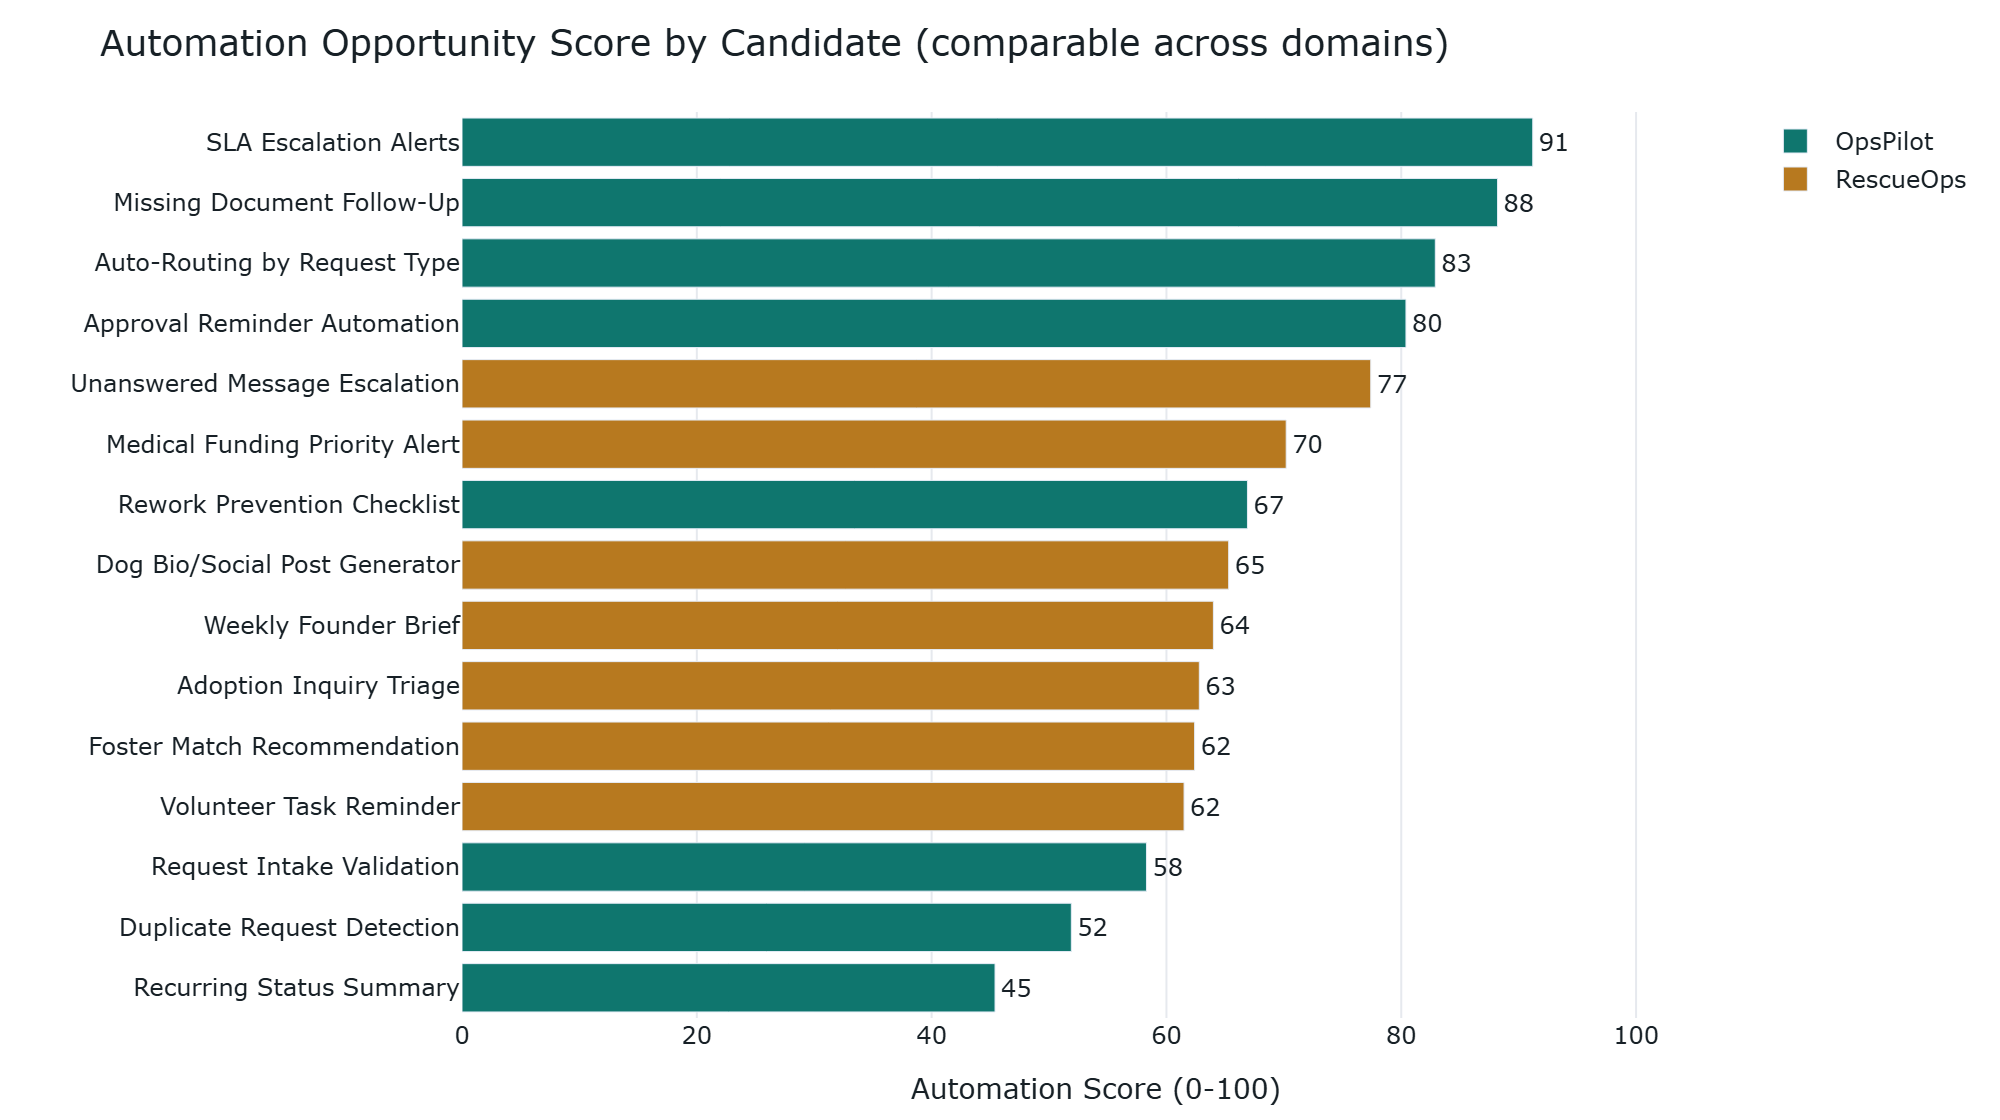
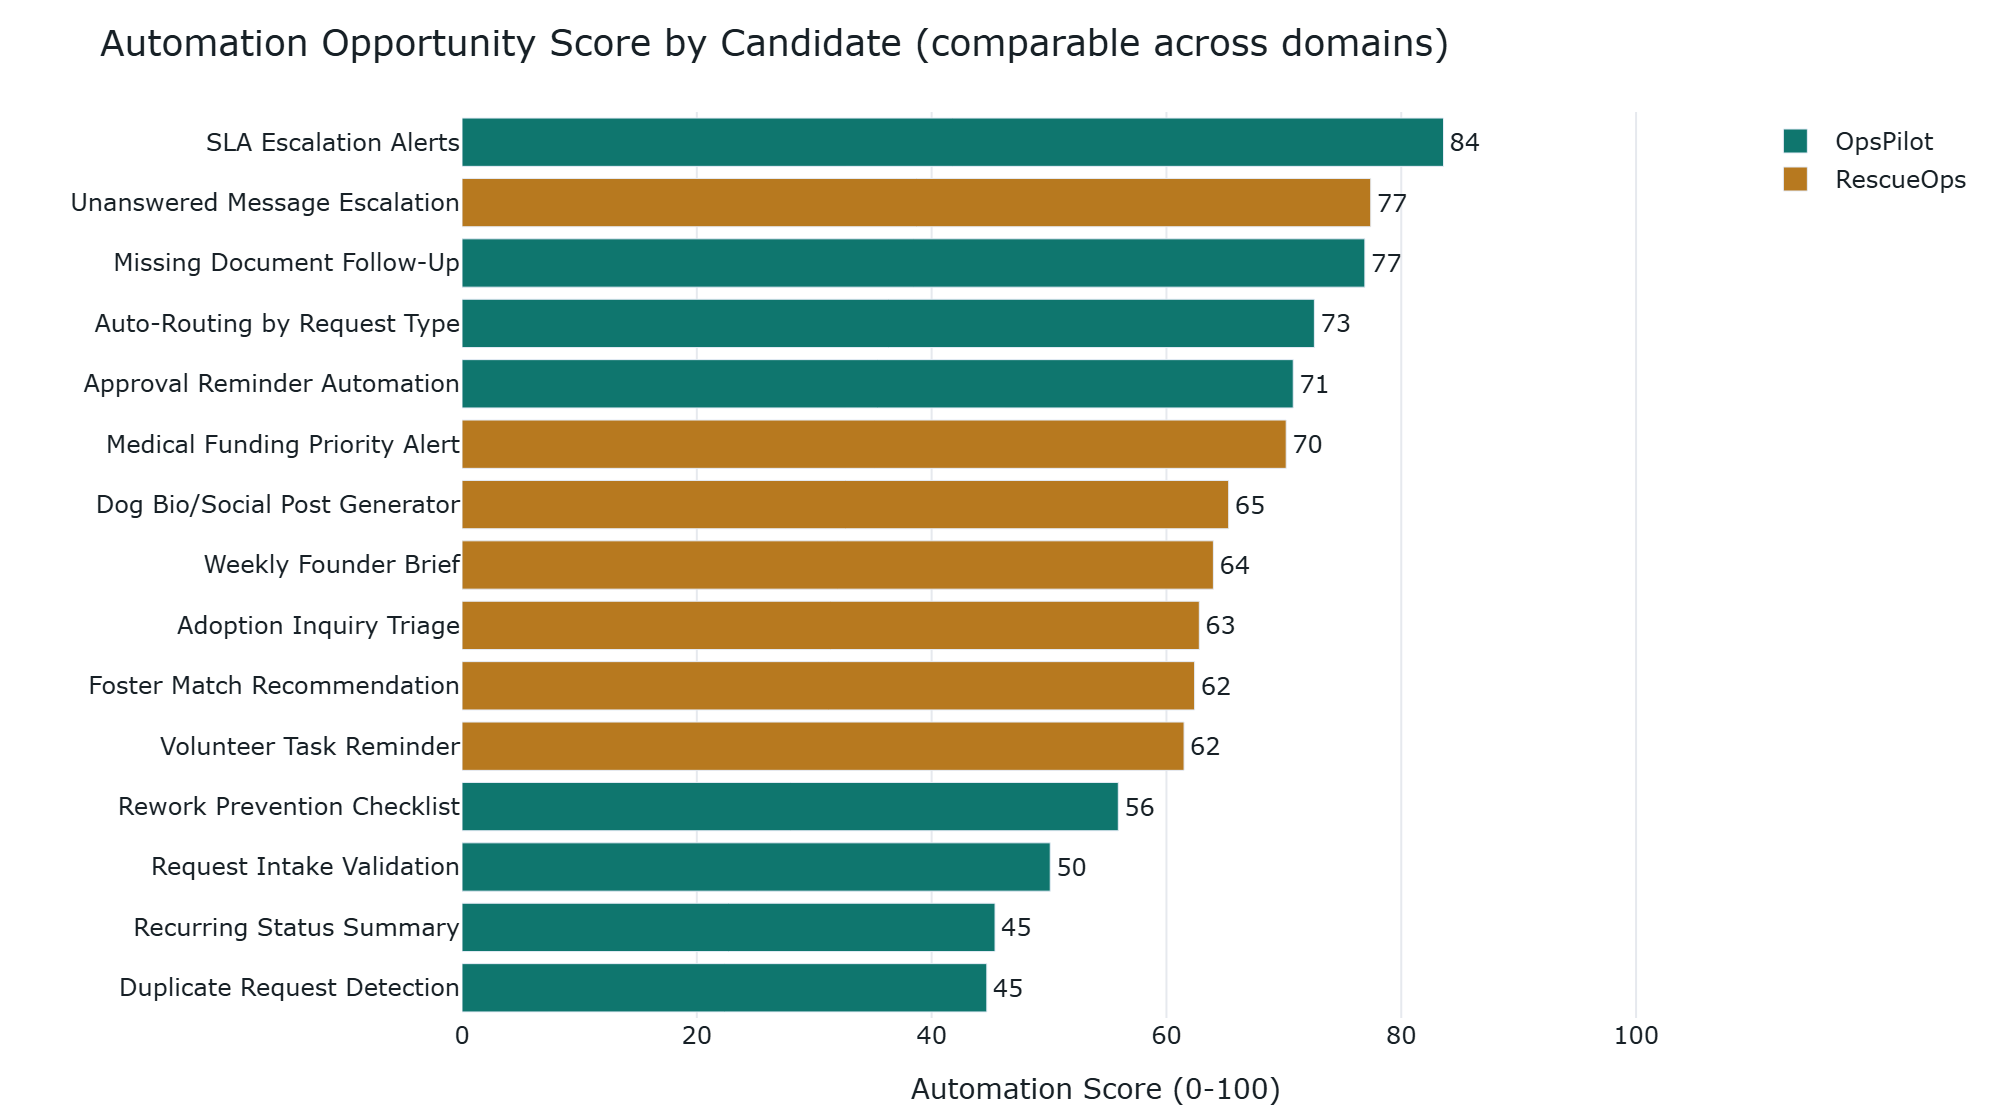
Review fixes: monthly scoring basis + automation/ROI edge cases
Adversarial Fable review of the revision found one real integrity bug and
four minor issues; all fixed and covered by tests.

Major -- cross-domain comparability was still false in code: OpsPilot fed
dataset-lifetime totals (~58-day span) into a curve calibrated as monthly,
while RescueOps fed monthly estimates, inflating OpsPilot scores by ~7-11
points. Fixed by scaling OpsPilot aggregates to a monthly basis via a shared
opspilot_monthly_impact() helper (used by both the builder and the property
test). The ranking now genuinely interleaves the two domains -- RescueOps'
top candidate (77.4) correctly sits above mid-pack OpsPilot candidates.

Minor:
- Plotly hovertemplate showed a literal "%%" -> single "%".
- Audit log: header decided by file size (not existence) and the handle opened
  lazily on first action, so a zero-byte crash-leftover still gets a header and
  a zero-action run creates nothing. New test covers the empty-file recovery.
- Windowed re-trigger now writes a date-suffixed file instead of silently
  overwriting the first message; test asserts the outbox grows.
- ROI with zero build cost reports ROI "n/a" and payback "Immediate" instead of
  a misleading 0%; report text phrasing for the no-payback case fixed.

Verified: py_compile clean; smoke, ranker, automation suites green; all 7 pages
+ report/demo toggles boot via AppTest; ranker.png regenerated.

Claude-Session: https://claude.ai/code/session_01PH1dVaM48RhUmaA4nxzxGZ

diff --git a/automations/missing_document_followup.py b/automations/missing_document_followup.py
@@ -148,7 +148,6 @@ def run(
 
     last_seen = load_key_last_seen(audit_log)
     handled = handled_keys(last_seen, now, window_days)
-    audit_exists = audit_log.exists()
 
     scanned = 0
     missing = 0
@@ -156,18 +155,32 @@ def run(
     skipped = 0
     capped = 0
 
-    # Crash-safety: open the audit log once and append each action row immediately
-    # after its outbox file is written (and flush), so a mid-run failure never
-    # leaves a written follow-up unrecorded -- which would cause a re-send next run.
-    audit_handle = None
-    audit_writer = None
     if not dry_run:
         outbox_dir.mkdir(parents=True, exist_ok=True)
-        audit_handle = audit_log.open("a", newline="", encoding="utf-8")
-        audit_writer = csv.writer(audit_handle)
-        if not audit_exists:
-            audit_writer.writerow(AUDIT_HEADER)
-            audit_handle.flush()
+
+    # Crash-safety: append each action row immediately after its outbox file is
+    # written (and flush), so a mid-run failure never leaves a written follow-up
+    # unrecorded -- which would cause a re-send next run. The audit file/handle is
+    # opened lazily on the FIRST action, so a run with zero actions creates nothing,
+    # and the header is decided by actual file contents (missing or empty), not mere
+    # existence -- a zero-byte leftover still gets a header.
+    audit_handle = None
+    audit_writer = None
+
+    def _audit_writer():
+        nonlocal audit_handle, audit_writer
+        if audit_handle is None:
+            need_header = (not audit_log.exists()) or audit_log.stat().st_size == 0
+            audit_handle = audit_log.open("a", newline="", encoding="utf-8")
+            audit_writer = csv.writer(audit_handle)
+            if need_header:
+                audit_writer.writerow(AUDIT_HEADER)
+                audit_handle.flush()
+        return audit_writer
+
+    # When a re-trigger window is in effect, a later chase must produce a distinct
+    # artifact rather than silently overwriting the first message.
+    name_suffix = f"_{now.date().isoformat()}" if window_days is not None else ""
 
     try:
         with data_path.open("r", newline="", encoding="utf-8") as handle:
@@ -197,7 +210,7 @@ def run(
                 # cannot double-write within a single run.
                 handled.add(key)
 
-                outbox_file = outbox_dir / f"{_safe_slug(request_id)}_{_safe_slug(rule_name)}.txt"
+                outbox_file = outbox_dir / f"{_safe_slug(request_id)}_{_safe_slug(rule_name)}{name_suffix}.txt"
                 # Defense in depth: never write outside the outbox directory.
                 if not outbox_file.resolve().is_relative_to(outbox_dir.resolve()):
                     raise ValueError(f"Refusing to write outside outbox: {outbox_file}")
@@ -207,7 +220,8 @@ def run(
                     continue
 
                 outbox_file.write_text(build_followup_message(row, rule_name), encoding="utf-8")
-                audit_writer.writerow(
+                writer = _audit_writer()
+                writer.writerow(
                     [timestamp, request_id, rule_name, key, "followup_message_written", str(outbox_file)]
                 )
                 audit_handle.flush()

diff --git a/modules/automation_ranker.py b/modules/automation_ranker.py
@@ -191,18 +191,44 @@ _RESCUEOPS_EFFORT_MODEL = {
 }
 
 
+def _monthly_factor(df: pd.DataFrame) -> float:
+    """Scale factor from dataset-lifetime totals to a ~monthly basis.
+
+    ``classification.aggregate_candidate_impact`` sums over every request in the
+    dataset, which spans many weeks. Dividing by the span (in 30-day months) puts
+    OpsPilot effort and SLA-breach figures on the same MONTHLY footing as the
+    RescueOps estimates and the monthly-calibrated scoring curve.
+    """
+    submitted = pd.to_datetime(df["submitted_date"])
+    span_days = max(int((submitted.max() - submitted.min()).days), 1)
+    return 30.0 / span_days
+
+
+def opspilot_monthly_impact(df: pd.DataFrame) -> pd.DataFrame:
+    """Per-candidate opportunity on a MONTHLY basis (manual_hours and sla_breaches
+    scaled from lifetime totals). This is the quantity fed to the scorer and shown
+    as "Estimated Hours Saved", so OpsPilot and RescueOps are genuinely comparable.
+    """
+    factor = _monthly_factor(df)
+    impact = classification.aggregate_candidate_impact(df).copy()
+    impact["manual_hours"] = impact["manual_hours"] * factor
+    impact["sla_breaches"] = impact["sla_breaches"] * factor
+    return impact
+
+
 def build_opspilot_automation_ranker(df: pd.DataFrame) -> pd.DataFrame:
     # Fix #9: absolute, cross-domain-comparable scoring. Candidacy comes from the
     # classification layer (derived from raw request fields) -- we never read the
     # generator's ``automation_candidate_type`` column, which Workstream A removes.
-    impact = classification.aggregate_candidate_impact(df)
+    # Aggregates are scaled to a monthly basis (see opspilot_monthly_impact).
+    impact = opspilot_monthly_impact(df)
 
     sized: list[dict] = [
         {
             "automation_name": row["automation_name"],
             "volume": int(row["volume"]),
             "manual_hours": float(row["manual_hours"]),
-            "sla_breaches": int(row["sla_breaches"]),
+            "sla_breaches": float(row["sla_breaches"]),
         }
         for _, row in impact.iterrows()
     ]
@@ -222,10 +248,9 @@ def build_opspilot_automation_ranker(df: pd.DataFrame) -> pd.DataFrame:
     for item in sized:
         spec = OPSPILOT_AUTOMATION_SPECS[item["automation_name"]]
         impact_score = scoring.sla_impact_score(item["sla_breaches"])
-        # Net hours actually removed = gross manual hours x save rate. This is the
-        # SAME quantity RescueOps feeds the scorer, so the two domains are directly
-        # comparable (they were not when OpsPilot fed gross hours and RescueOps fed
-        # net). It also drives the "Estimated Hours Saved" column below.
+        # Monthly net hours removed = monthly gross manual hours x save rate. This is
+        # the SAME quantity RescueOps feeds the scorer (monthly net hours), so the two
+        # domains are directly comparable. It also drives "Estimated Hours Saved".
         net_hours_saved = item["manual_hours"] * scoring.OPSPILOT_SAVE_RATES[item["automation_name"]]
         score = scoring.absolute_automation_score(
             net_hours_saved=net_hours_saved,

diff --git a/tests/test_automation.py b/tests/test_automation.py
@@ -80,7 +80,10 @@ def main() -> int:
 
         # --- windowed re-trigger ------------------------------------------------
         r3 = run(data, outbox, audit, now=t0 + dt.timedelta(days=40), window_days=30)
-        _check("window elapsed -> request chased again", r3["written"] == 3 and _audit_rows(audit) == 6)
+        _check(
+            "window elapsed -> request chased again as a distinct file",
+            r3["written"] == 3 and _audit_rows(audit) == 6 and _outbox_count(outbox) == 6,
+        )
         r4 = run(data, outbox, audit, now=t0 + dt.timedelta(days=45), window_days=60)
         _check("still within window -> skipped", r4["written"] == 0)
 
@@ -101,6 +104,22 @@ def main() -> int:
         # --- circuit breaker ---------------------------------------------------
         rc = run(data, outbox, audit, max_actions=1)
         _check("max-actions caps the run", rc["written"] == 1 and rc["capped"] == 1 and _outbox_count(outbox) == 1)
+
+    # --- zero-byte audit file still gets a header (crash-recovery edge) ---------
+    with tempfile.TemporaryDirectory() as tmp:
+        base = Path(tmp)
+        data = base / "requests.csv"
+        outbox = base / "outbox"
+        audit = base / "audit_log.csv"
+        _write_csv(data, [
+            {"request_id": "REQ-1", "required_documents_missing": "true", "owner": "A", "priority": "Low", "submitted_date": "2026-06-01"},
+        ])
+        audit.write_text("", encoding="utf-8")  # simulate a crash-left empty file
+        run(data, outbox, audit)
+        # Header must be present, so DictReader parses one action row (not zero).
+        _check("empty audit file gets a header written", _audit_rows(audit) == 1)
+        r_again = run(data, outbox, audit)
+        _check("idempotent after empty-file recovery", r_again["written"] == 0 and _audit_rows(audit) == 1)
 
     # --- path traversal --------------------------------------------------------
     with tempfile.TemporaryDirectory() as tmp:

diff --git a/modules/roi_calculator.py b/modules/roi_calculator.py
@@ -37,12 +37,17 @@ def calculate_opspilot_roi(
     # estimate without a cost line is not an ROI; this makes the page title honest.
     monthly_net_savings = monthly_labor_savings - monthly_maintenance_cost
     annual_net_savings = monthly_net_savings * 12 - one_time_build_cost
-    payback_months = (
-        one_time_build_cost / monthly_net_savings if monthly_net_savings > 0 else float("inf")
-    )
-    first_year_roi_pct = (
-        annual_net_savings / one_time_build_cost * 100 if one_time_build_cost > 0 else 0.0
-    )
+    if one_time_build_cost <= 0:
+        # No build cost -> payback is immediate and percentage ROI is undefined.
+        payback_months = 0.0
+        first_year_roi_pct = None
+    elif monthly_net_savings > 0:
+        payback_months = one_time_build_cost / monthly_net_savings
+        first_year_roi_pct = annual_net_savings / one_time_build_cost * 100
+    else:
+        # Maintenance exceeds savings -> the build never pays back at these inputs.
+        payback_months = float("inf")
+        first_year_roi_pct = annual_net_savings / one_time_build_cost * 100
 
     return {
         "monthly_hours_saved": monthly_hours_saved,

diff --git a/app.py b/app.py
@@ -507,7 +507,14 @@ def render_roi_page(
             hourly_rate, manual_minutes, monthly_volume, percent_automated, time_saved_pct, build_cost, maintenance_cost
         )
         payback = roi["payback_months"]
-        payback_display = f"{payback:.1f} months" if payback != float("inf") else "Not in year 1"
+        if payback == float("inf"):
+            payback_display = "Not recoverable"
+        elif payback == 0.0:
+            payback_display = "Immediate"
+        else:
+            payback_display = f"{payback:.1f} months"
+        roi_pct = roi["first_year_roi_pct"]
+        roi_display = "n/a" if roi_pct is None else f"{roi_pct:.0f}%"
         ui.metric_cards(
             [
                 ("Monthly Hours Saved", ui.number(roi["monthly_hours_saved"], 1), "Estimated labor capacity"),
@@ -515,7 +522,7 @@ def render_roi_page(
                 ("Annual Labor Savings", ui.money(roi["annual_labor_savings"]), "Gross run-rate"),
                 ("First-Year Net Savings", ui.money(roi["annual_net_savings"]), "After build + maintenance"),
                 ("Payback Period", payback_display, "Time to recover build cost"),
-                ("First-Year ROI", f"{roi['first_year_roi_pct']:.0f}%", "Return on build cost"),
+                ("First-Year ROI", roi_display, "Return on build cost"),
             ],
             columns=3,
         )
@@ -725,7 +732,7 @@ def sla_breach_rate_chart(df: pd.DataFrame):
         color_discrete_sequence=COLOR_SEQUENCE,
         custom_data=["volume"],
     )
-    fig.update_traces(hovertemplate="%{y}: %{x:.1f}%% breach rate<br>%{customdata[0]:,} requests<extra></extra>")
+    fig.update_traces(hovertemplate="%{y}: %{x:.1f}% breach rate<br>%{customdata[0]:,} requests<extra></extra>")
     fig.update_yaxes(categoryorder="total ascending", title="")
     fig.update_xaxes(title="SLA Breach Rate (%)")
     return style_chart(fig)

diff --git a/modules/report_generator.py b/modules/report_generator.py
@@ -431,14 +431,17 @@ def markdown_to_text(markdown_text: str) -> str:
 
 def _opspilot_roi_text(roi: dict) -> str:
     payback = roi.get("payback_months")
-    payback_text = (
-        f"about {payback:.1f} months" if payback is not None and payback != float("inf") else "not reached in year one"
-    )
+    if payback is None or payback == float("inf"):
+        payback_text = "the build does not pay back within year one at these assumptions"
+    elif payback == 0:
+        payback_text = "payback is immediate (no build cost assumed)"
+    else:
+        payback_text = f"payback is about {payback:.1f} months"
     return (
         f"The proposed automation saves an estimated {roi['monthly_hours_saved']:,.1f} hours per month, "
         f"or ${roi['monthly_labor_savings']:,.0f} in monthly labor value and ${roi['annual_labor_savings']:,.0f} annually. "
-        f"Net of an assumed build and maintenance cost, first-year net savings are ${roi['annual_net_savings']:,.0f} "
-        f"with payback in {payback_text}. {roi['qualitative_business_value']}"
+        f"Net of an assumed build and maintenance cost, first-year net savings are ${roi['annual_net_savings']:,.0f} and "
+        f"{payback_text}. {roi['qualitative_business_value']}"
     )
 
 

diff --git a/tests/test_ranker.py b/tests/test_ranker.py
@@ -30,6 +30,7 @@ from modules.automation_ranker import (
     build_combined_automation_ranker,
     build_opspilot_automation_ranker,
     build_rescueops_automation_ranker,
+    opspilot_monthly_impact,
 )
 from modules.roi_calculator import calculate_opspilot_roi, calculate_rescueops_roi
 from modules import classification, scoring
@@ -110,12 +111,14 @@ def main() -> int:
     # unreliable here because candidate memberships overlap -- dropping one
     # candidate's rows also removes rows that belong to another.)
     baseline = r_ops.set_index("Automation Candidate")["Automation Score"]
-    _impact = classification.aggregate_candidate_impact(ops).set_index("automation_name")
+    # Use the same monthly-scaled aggregate the builder uses, so this checks the
+    # builder applies exactly the documented (monthly basis + curve) formula.
+    _impact = opspilot_monthly_impact(ops).set_index("automation_name")
     _iso_name = "SLA Escalation Alerts"
     _spec = OPSPILOT_AUTOMATION_SPECS[_iso_name]
     _expected = scoring.absolute_automation_score(
         net_hours_saved=float(_impact.loc[_iso_name, "manual_hours"]) * scoring.OPSPILOT_SAVE_RATES[_iso_name],
-        impact_0_100=scoring.sla_impact_score(int(_impact.loc[_iso_name, "sla_breaches"])),
+        impact_0_100=scoring.sla_impact_score(float(_impact.loc[_iso_name, "sla_breaches"])),
         repeatability=_spec["repeatability"],
         rule_clarity=_spec["rule_clarity"],
         complexity=_spec["complexity"],

diff --git a/CHANGES.md b/CHANGES.md
@@ -104,9 +104,11 @@ process-improvement/executive credibility, dashboard UX) drove a second round.
    save rate, so the two views agree.
 3. Scoring saturation. The effort term used a hard 40-hour ceiling that pinned most
    OpsPilot candidates to the same value, so the ranking barely moved with the data.
-   Replaced with a diminishing-returns curve over NET hours saved, fed identically
-   by both domains. A new volume-sensitivity test proves doubling a candidate's rows
-   raises its score; the absoluteness check was rewritten to a direct property test.
+   Replaced with a diminishing-returns curve over NET monthly hours saved. OpsPilot
+   aggregates (lifetime totals over the dataset span) are scaled to a monthly basis
+   so both domains feed the curve the same quantity -- otherwise "comparable across
+   domains" would be false. A volume-sensitivity test proves doubling a candidate's
+   rows raises its score; absoluteness is checked by a direct property test.
 4. Micro-automation hardening: the audit row is now written and flushed immediately
    after each outbox file (crash-safe), plus `--dry-run`, a `--max-actions` circuit
    breaker, and `--window-days` for a reminder ladder. New `tests/test_automation.py`